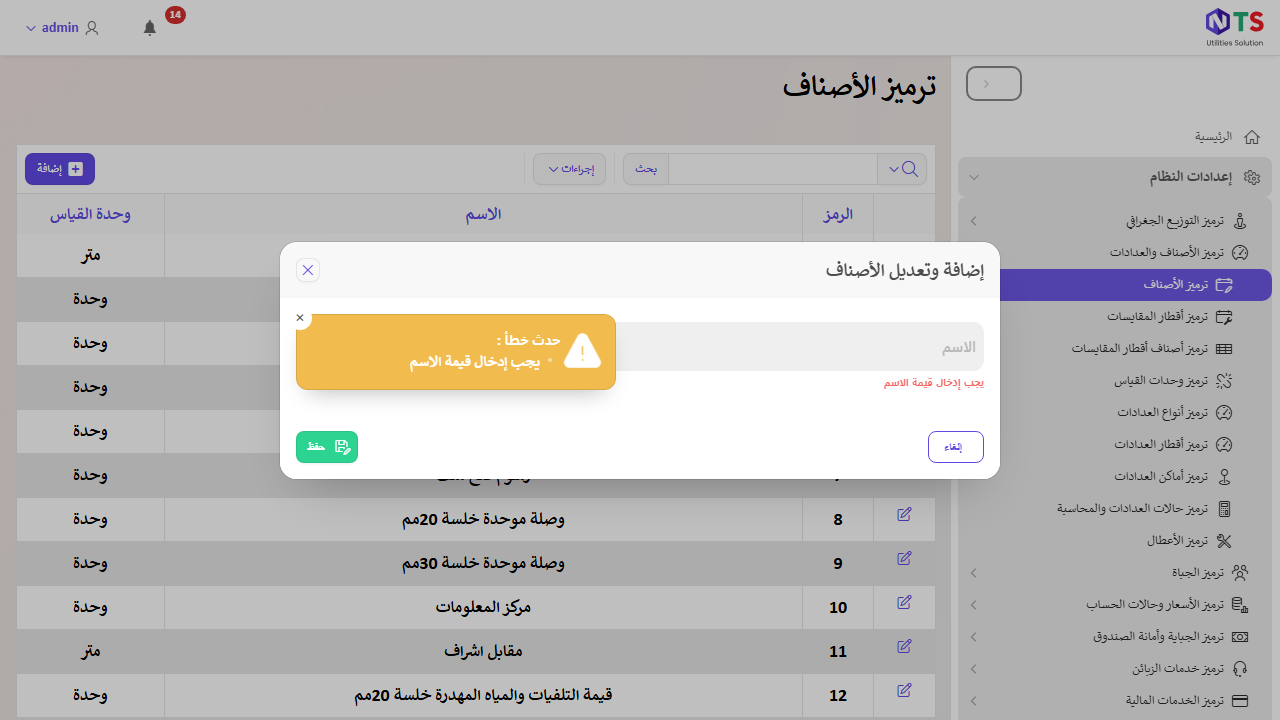
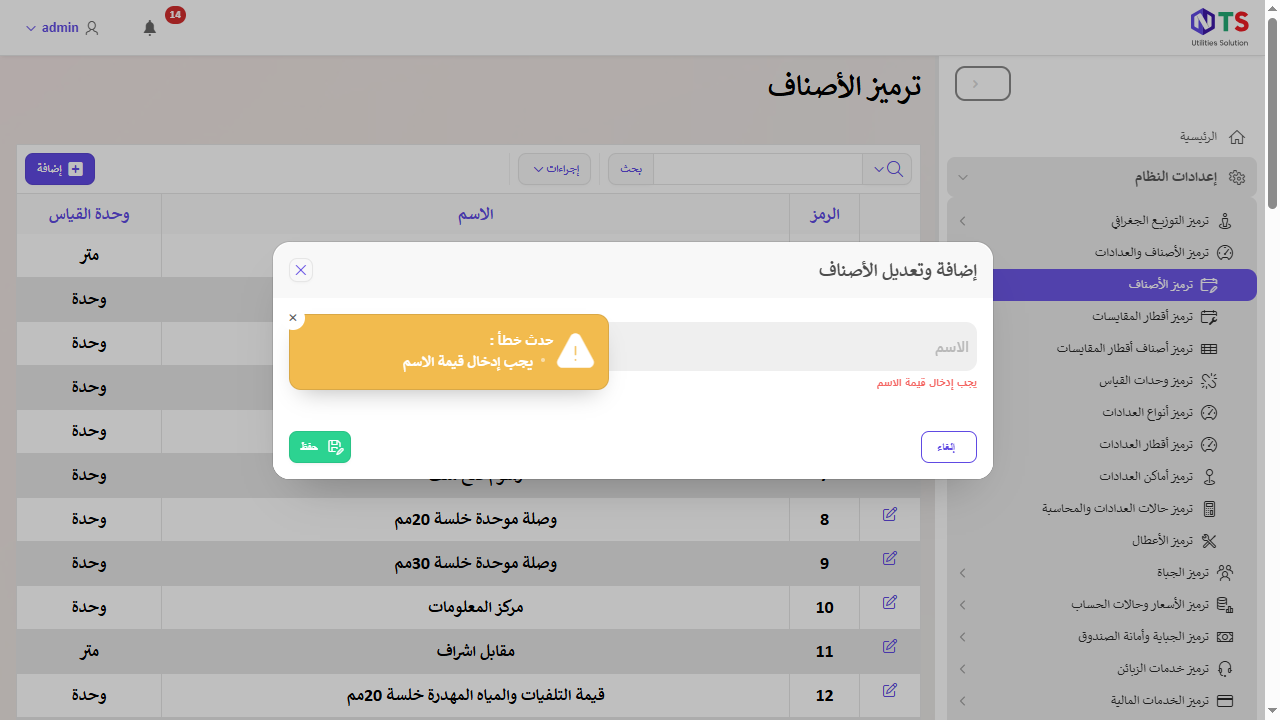
feat(tests): add complete and verified test suite for Survey Diameters Coding (ترميز أقطار المقايسات)

diff --git a/survey-diameters-coding.spec.js b/survey-diameters-coding.spec.js
@@ -1,0 +1,116 @@
+import { test, expect } from '@playwright/test';
+
+test.describe('فحوصات شاشة ترميز أقطار المقايسات', () => {
+
+    test.beforeEach(async ({ page }) => {
+        test.setTimeout(60000);
+
+        // 1. تسجيل الدخول
+        console.log('1. Logging in...');
+        await page.goto('https://apex.ntgcloud.net/ords/r/nts/master-app102/login', { waitUntil: 'domcontentloaded' });
+        await page.locator('#P9999_USERNAME').fill('ADMIN');
+        await page.locator('#P9999_PASSWORD').fill('admin');
+        await page.locator('#P9999_SELECT_APP').selectOption('100');
+        await page.locator('button:has-text("تسجيل الدخول")').click();
+        await page.waitForTimeout(5000);
+
+        // 2. الانتقال إلى شاشة ترميز أقطار المقايسات
+        console.log('2. Navigating to Survey Diameters Coding screen...');
+        await page.locator('text="إعدادات النظام"').first().click();
+        await page.waitForTimeout(1000);
+        await page.locator('text="ترميز الأصناف والعدادات"').first().click();
+        await page.waitForTimeout(1000);
+        await page.locator('text="ترميز أقطار المقايسات"').first().click();
+        await page.waitForTimeout(4000);
+
+        // 3. التأكد من عنوان الصفحة والرابط
+        await expect(page).toHaveTitle(/أقطار المقايسات/i);
+        expect(decodeURI(page.url())).toContain('ترميز-أقطار-المقايسات');
+        console.log('Verified: Correct Title and URL for ترميز-أقطار-المقايسات!');
+    });
+
+    // 1⃣ الفحص الأول: ترك حقل اسم القطر فارغاً والتأكد من ظهور رسالة الخطأ
+    test('1. ترك حقل اسم القطر فارغاً والتأكد من رسالة الخطأ', async ({ page }) => {
+        console.log('--- Test 1: Leave Diameter name empty ---');
+
+        // أ) الضغط على زر إضافة
+        await page.locator('button:has-text("إضافة")').click();
+        await page.waitForTimeout(3000);
+
+        // ب) التعامل مع النافذة المنبثقة داخل الـ iframe
+        const modalFrame = page.frameLocator('iframe');
+
+        // ج) التأكد من أن حقل الاسم فارغ ثم الضغط على حفظ
+        await modalFrame.locator('#P9_CONNECTION_SIZE_NAME').fill('');
+        await modalFrame.locator('button:has-text("حفظ")').click();
+
+        // د) انتظار ظهور رسالة الخطأ والتحقق منها
+        const modalAlert = modalFrame.locator('.t-Alert');
+        await expect(modalAlert).toBeVisible({ timeout: 15000 });
+        await expect(modalAlert).toContainText('يجب إدخال قيمة الاسم');
+        await page.waitForTimeout(1000);
+
+        // هـ) التقاط صورة لتوثيق الخطأ
+        await page.screenshot({ path: '1_diameter_empty_name_error.png' });
+        console.log('Screenshot saved: 1_diameter_empty_name_error.png');
+    });
+
+    // 2⃣ الفحص الثاني: إضافة قطر مقايسة جديد وحفظه بنجاح
+    test('2. إضافة قطر مقايسة جديد وحفظه بنجاح', async ({ page }) => {
+        console.log('--- Test 2: Add valid Diameter and save ---');
+
+        // أ) الضغط على زر إضافة
+        await page.locator('button:has-text("إضافة")').click();
+        await page.waitForTimeout(3000);
+
+        // ب) كتابة اسم قطر مقايسة جديد مميز داخل الـ iframe
+        const modalFrame = page.frameLocator('iframe');
+        const uniqueDiameterName = `قطر تجريبي ${Date.now().toString().slice(-4)}`;
+        console.log(`Adding diameter: ${uniqueDiameterName}`);
+        await modalFrame.locator('#P9_CONNECTION_SIZE_NAME').fill(uniqueDiameterName);
+        await page.waitForTimeout(1000);
+
+        // ج) الضغط على زر حفظ
+        await modalFrame.locator('button:has-text("حفظ")').click();
+
+        // د) التحقق من ظهور إشعار النجاح الأخضر في الصفحة الرئيسية
+        const successBanner = page.locator('.t-Alert--success, .t-Alert:has-text("تم حفظ البيانات بنجاح")');
+        await expect(successBanner).toBeVisible({ timeout: 15000 });
+        await expect(successBanner).toContainText('تم حفظ البيانات بنجاح');
+        await page.waitForTimeout(1000);
+
+        // هـ) التقاط صورة لتوثيق النجاح
+        await page.screenshot({ path: '2_valid_diameter_saved.png' });
+        console.log('Screenshot saved: 2_valid_diameter_saved.png');
+    });
+
+    // 3⃣ الفحص الثالث: فتح نافذة الإضافة والضغط على زر إلغاء والتأكد من إغلاقها
+    test('3. فتح نافذة الإضافة والضغط على زر إلغاء والتأكد من إغلاق النافذة', async ({ page }) => {
+        console.log('--- Test 3: Open Add dialog and Cancel ---');
+
+        // أ) الضغط على زر إضافة
+        await page.locator('button:has-text("إضافة")').click();
+        await page.waitForTimeout(3000);
+
+        // ب) التأكد من فتح الـ iframe
+        const modalFrame = page.frameLocator('iframe');
+        await expect(modalFrame.locator('#P9_CONNECTION_SIZE_NAME')).toBeVisible({ timeout: 10000 });
+
+        // ج) كتابة نص مؤقت
+        await modalFrame.locator('#P9_CONNECTION_SIZE_NAME').fill('قطر مؤقت للتجربة');
+        await page.waitForTimeout(1000);
+
+        // د) الضغط على زر إلغاء
+        await modalFrame.locator('button:has-text("إلغاء")').click();
+        await page.waitForTimeout(2000);
+
+        // هـ) التأكد من إغلاق النافذة المنبثقة واختفاء الـ iframe
+        await expect(page.locator('iframe')).toHaveCount(0);
+        console.log('Verified: Modal closed successfully upon cancel.');
+
+        // و) التقاط صورة لتوثيق إغلاق النافذة والعودة للشاشة الرئيسية
+        await page.screenshot({ path: '3_diameter_cancel_dialog.png' });
+        console.log('Screenshot saved: 3_diameter_cancel_dialog.png');
+    });
+
+});
